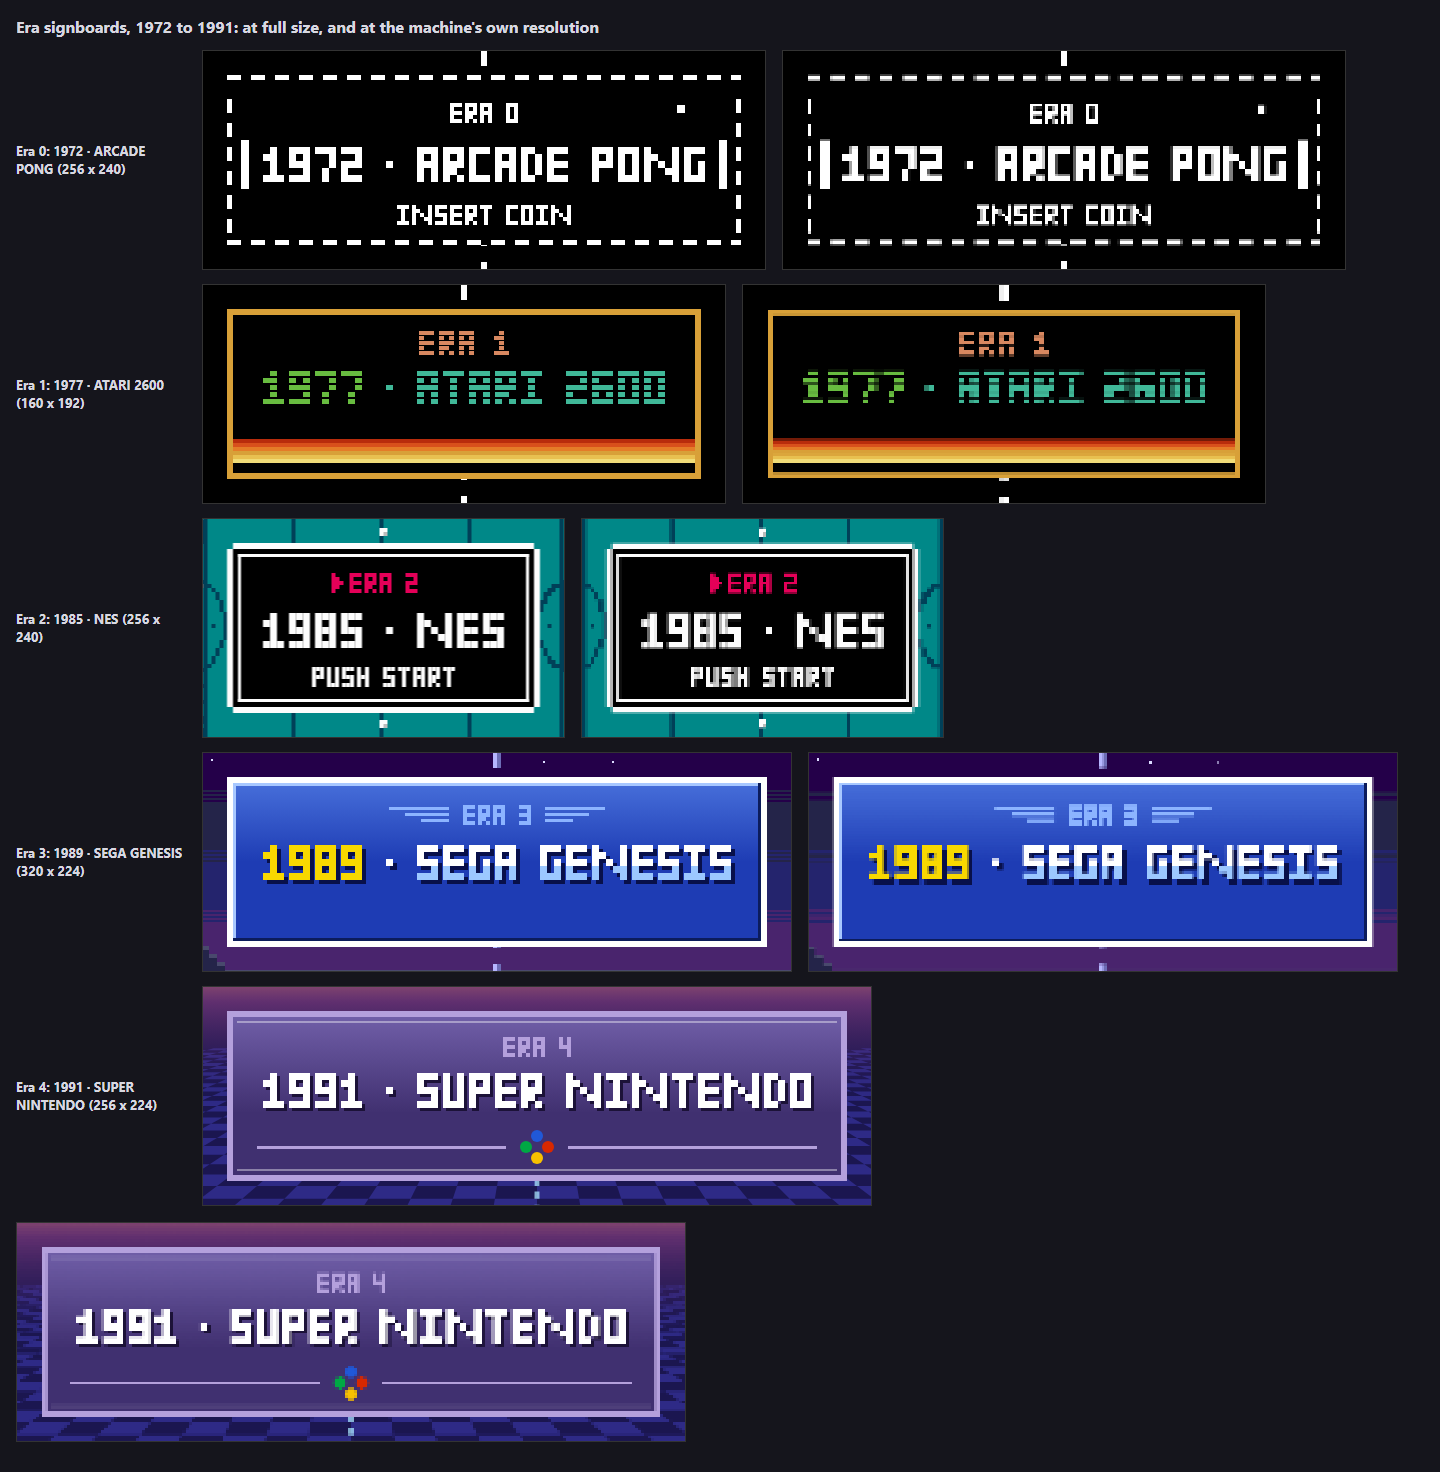
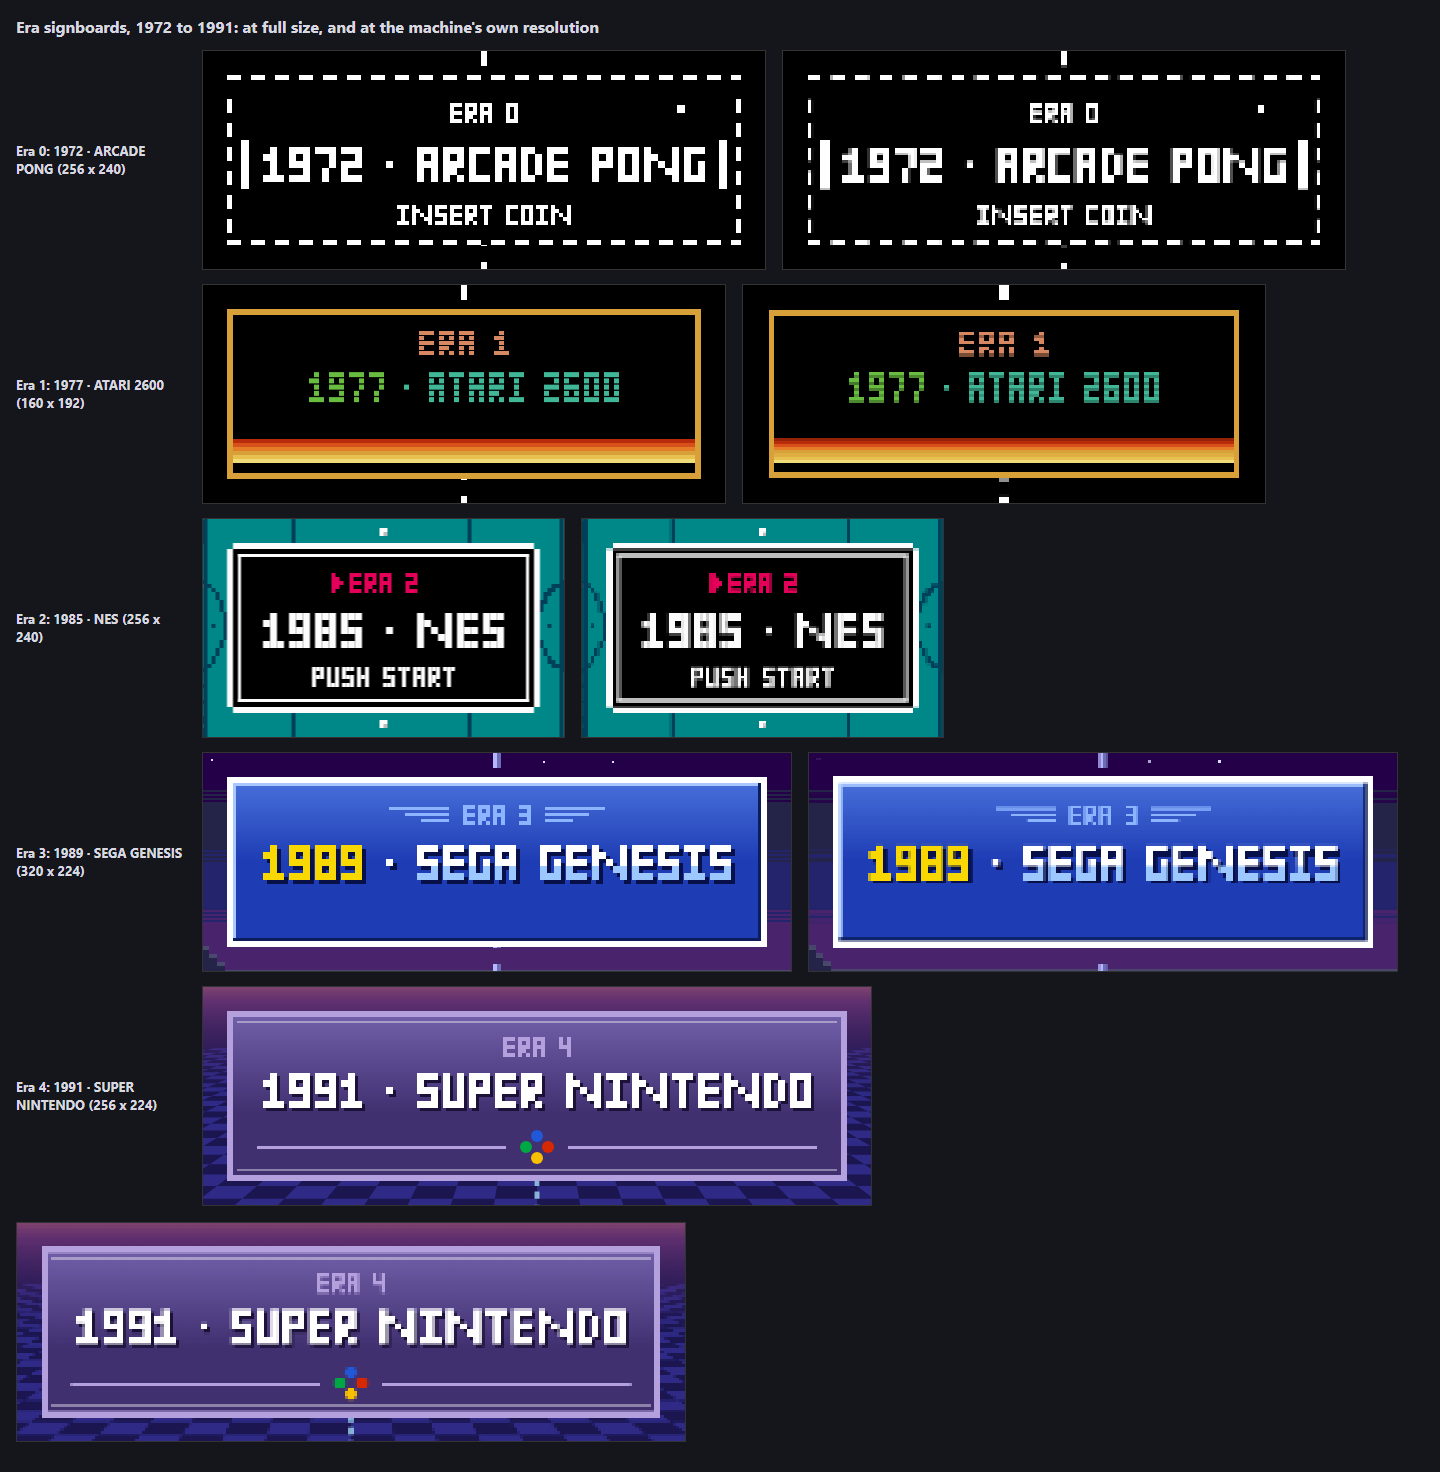
item 1196: the contact sheet squeezes the whole screen to the machine's pixels before cropping, so the grid sits where the machine had it; both sheets re-shot, plus the Atari panel before and after (3 PNGs)

diff --git a/tools/signboards-sheet.html b/tools/signboards-sheet.html
@@ -72,19 +72,22 @@
         big.width = cw; big.height = ch;
         big.getContext('2d').drawImage(full, cx, cy, cw, ch, 0, 0, cw, ch);
 
-        // Down to the machine's own pixels, then back up block for block.
+        // The whole screen down to the machine's own pixels, then the card's
+        // patch of that back up block for block. Squeezing the whole screen
+        // (item 1196) keeps the machine's pixel grid where the machine had it;
+        // squeezing only the crop shifted it by wherever the crop began.
         var res = S.resolution[era];
         var sx = res.w / g.width, sy = res.h / g.height;
         var tiny = document.createElement('canvas');
-        tiny.width = Math.max(1, Math.round(cw * sx)); tiny.height = Math.max(1, Math.round(ch * sy));
+        tiny.width = res.w; tiny.height = res.h;
         var tx = tiny.getContext('2d');
         tx.imageSmoothingEnabled = true;
-        tx.drawImage(full, cx, cy, cw, ch, 0, 0, tiny.width, tiny.height);
+        tx.drawImage(full, 0, 0, g.width, g.height, 0, 0, res.w, res.h);
         var low = document.createElement('canvas');
         low.width = cw; low.height = ch;
         var lx = low.getContext('2d');
         lx.imageSmoothingEnabled = false;
-        lx.drawImage(tiny, 0, 0, tiny.width, tiny.height, 0, 0, cw, ch);
+        lx.drawImage(tiny, cx * sx, cy * sy, cw * sx, ch * sy, 0, 0, cw, ch);
 
         var row = document.createElement('div');
         row.className = 'row';
